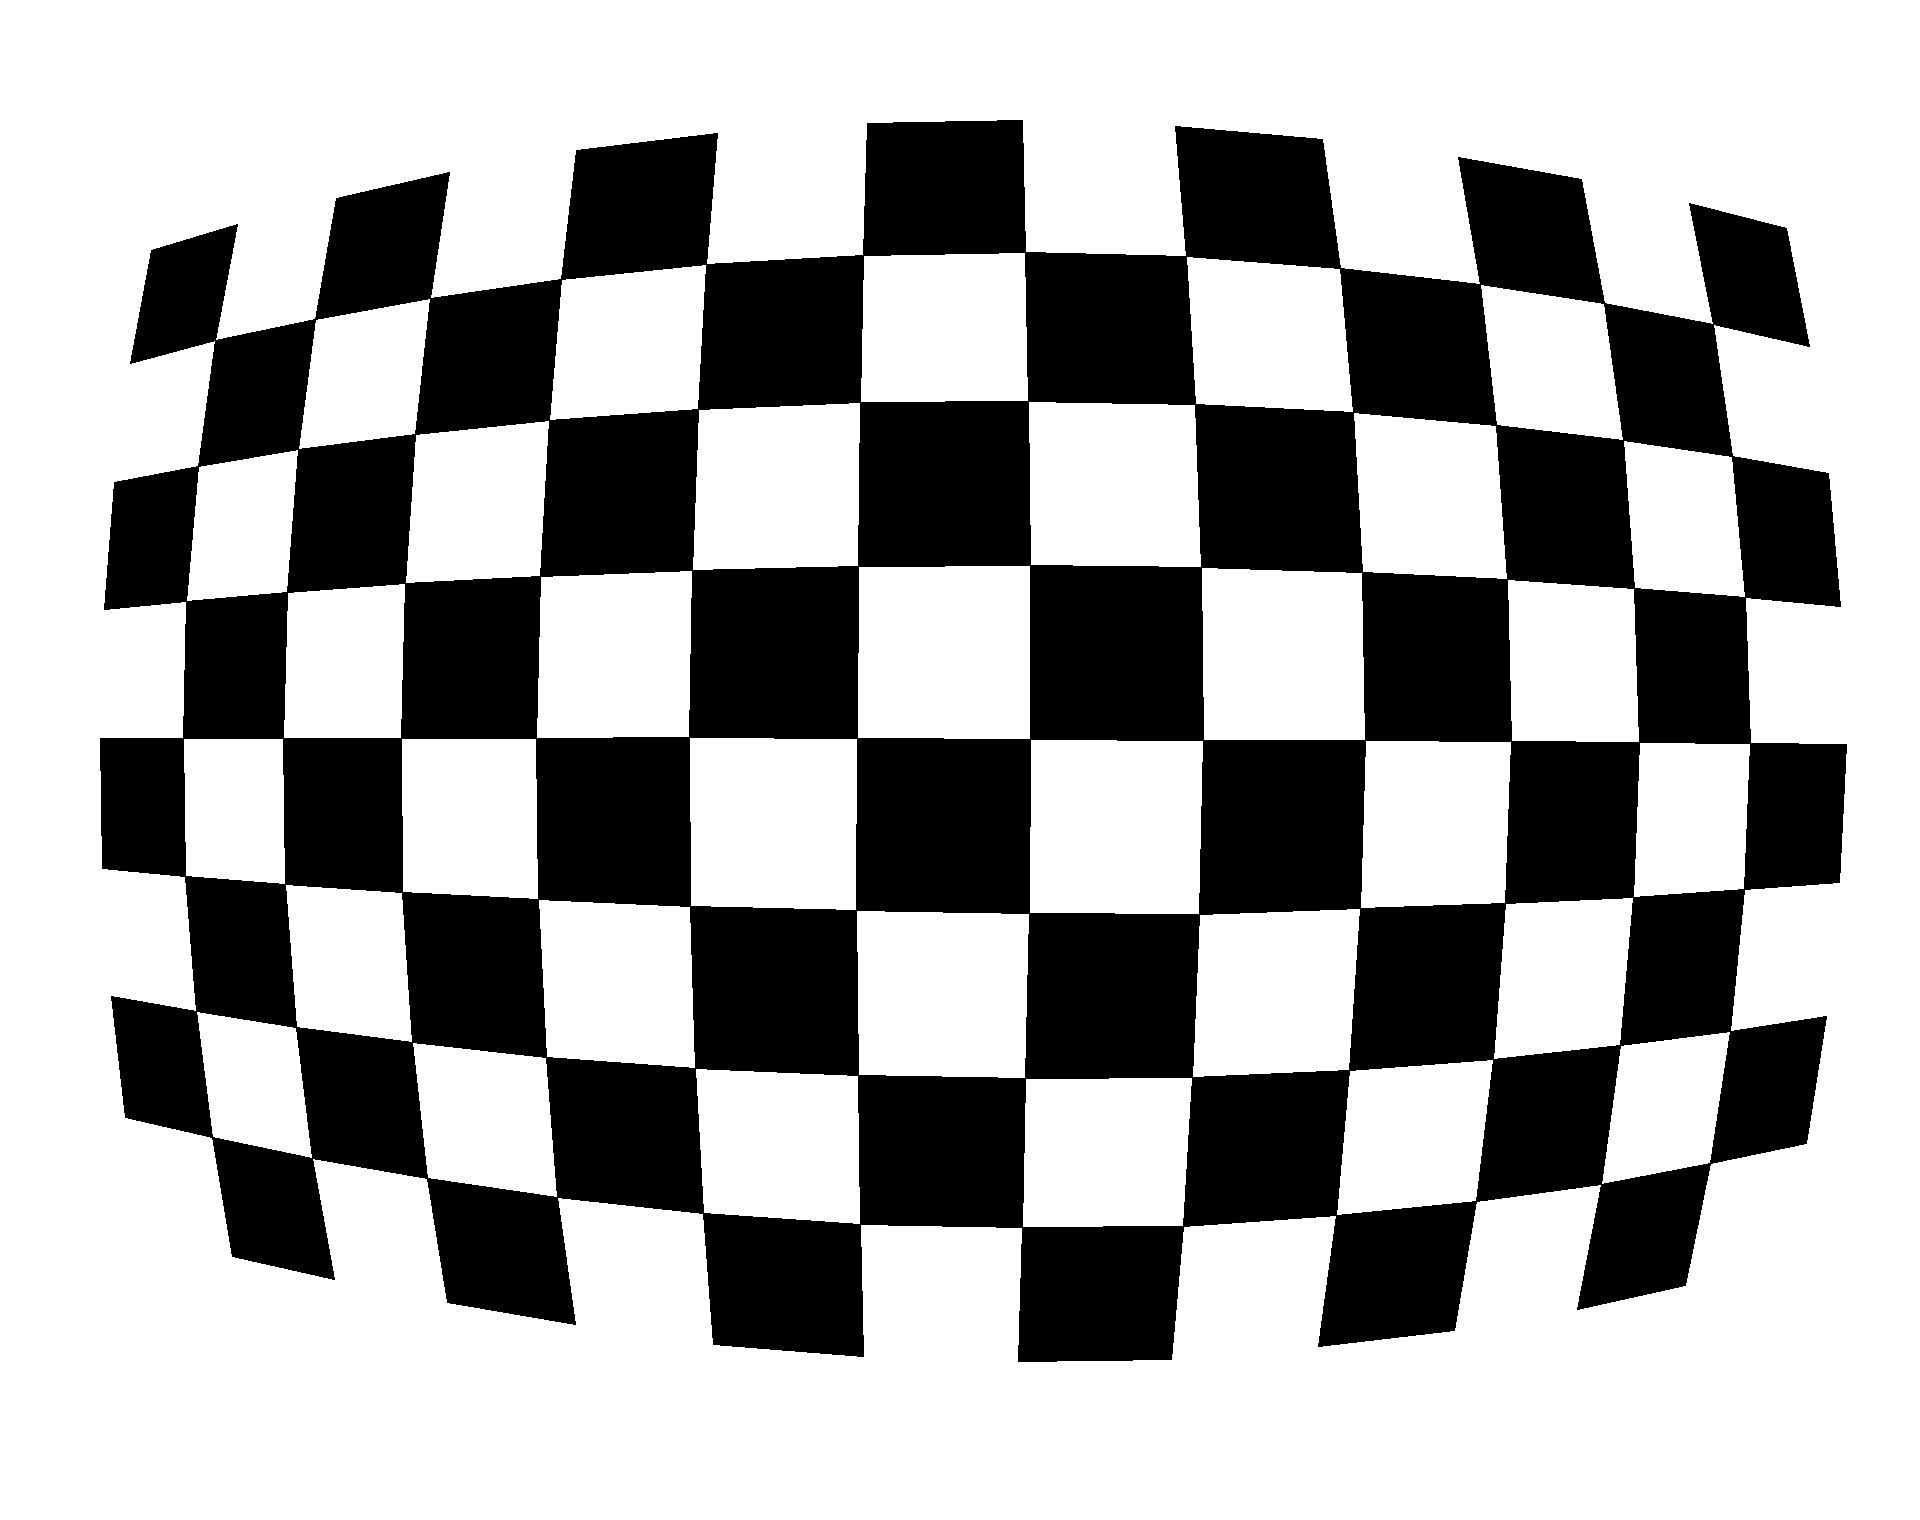
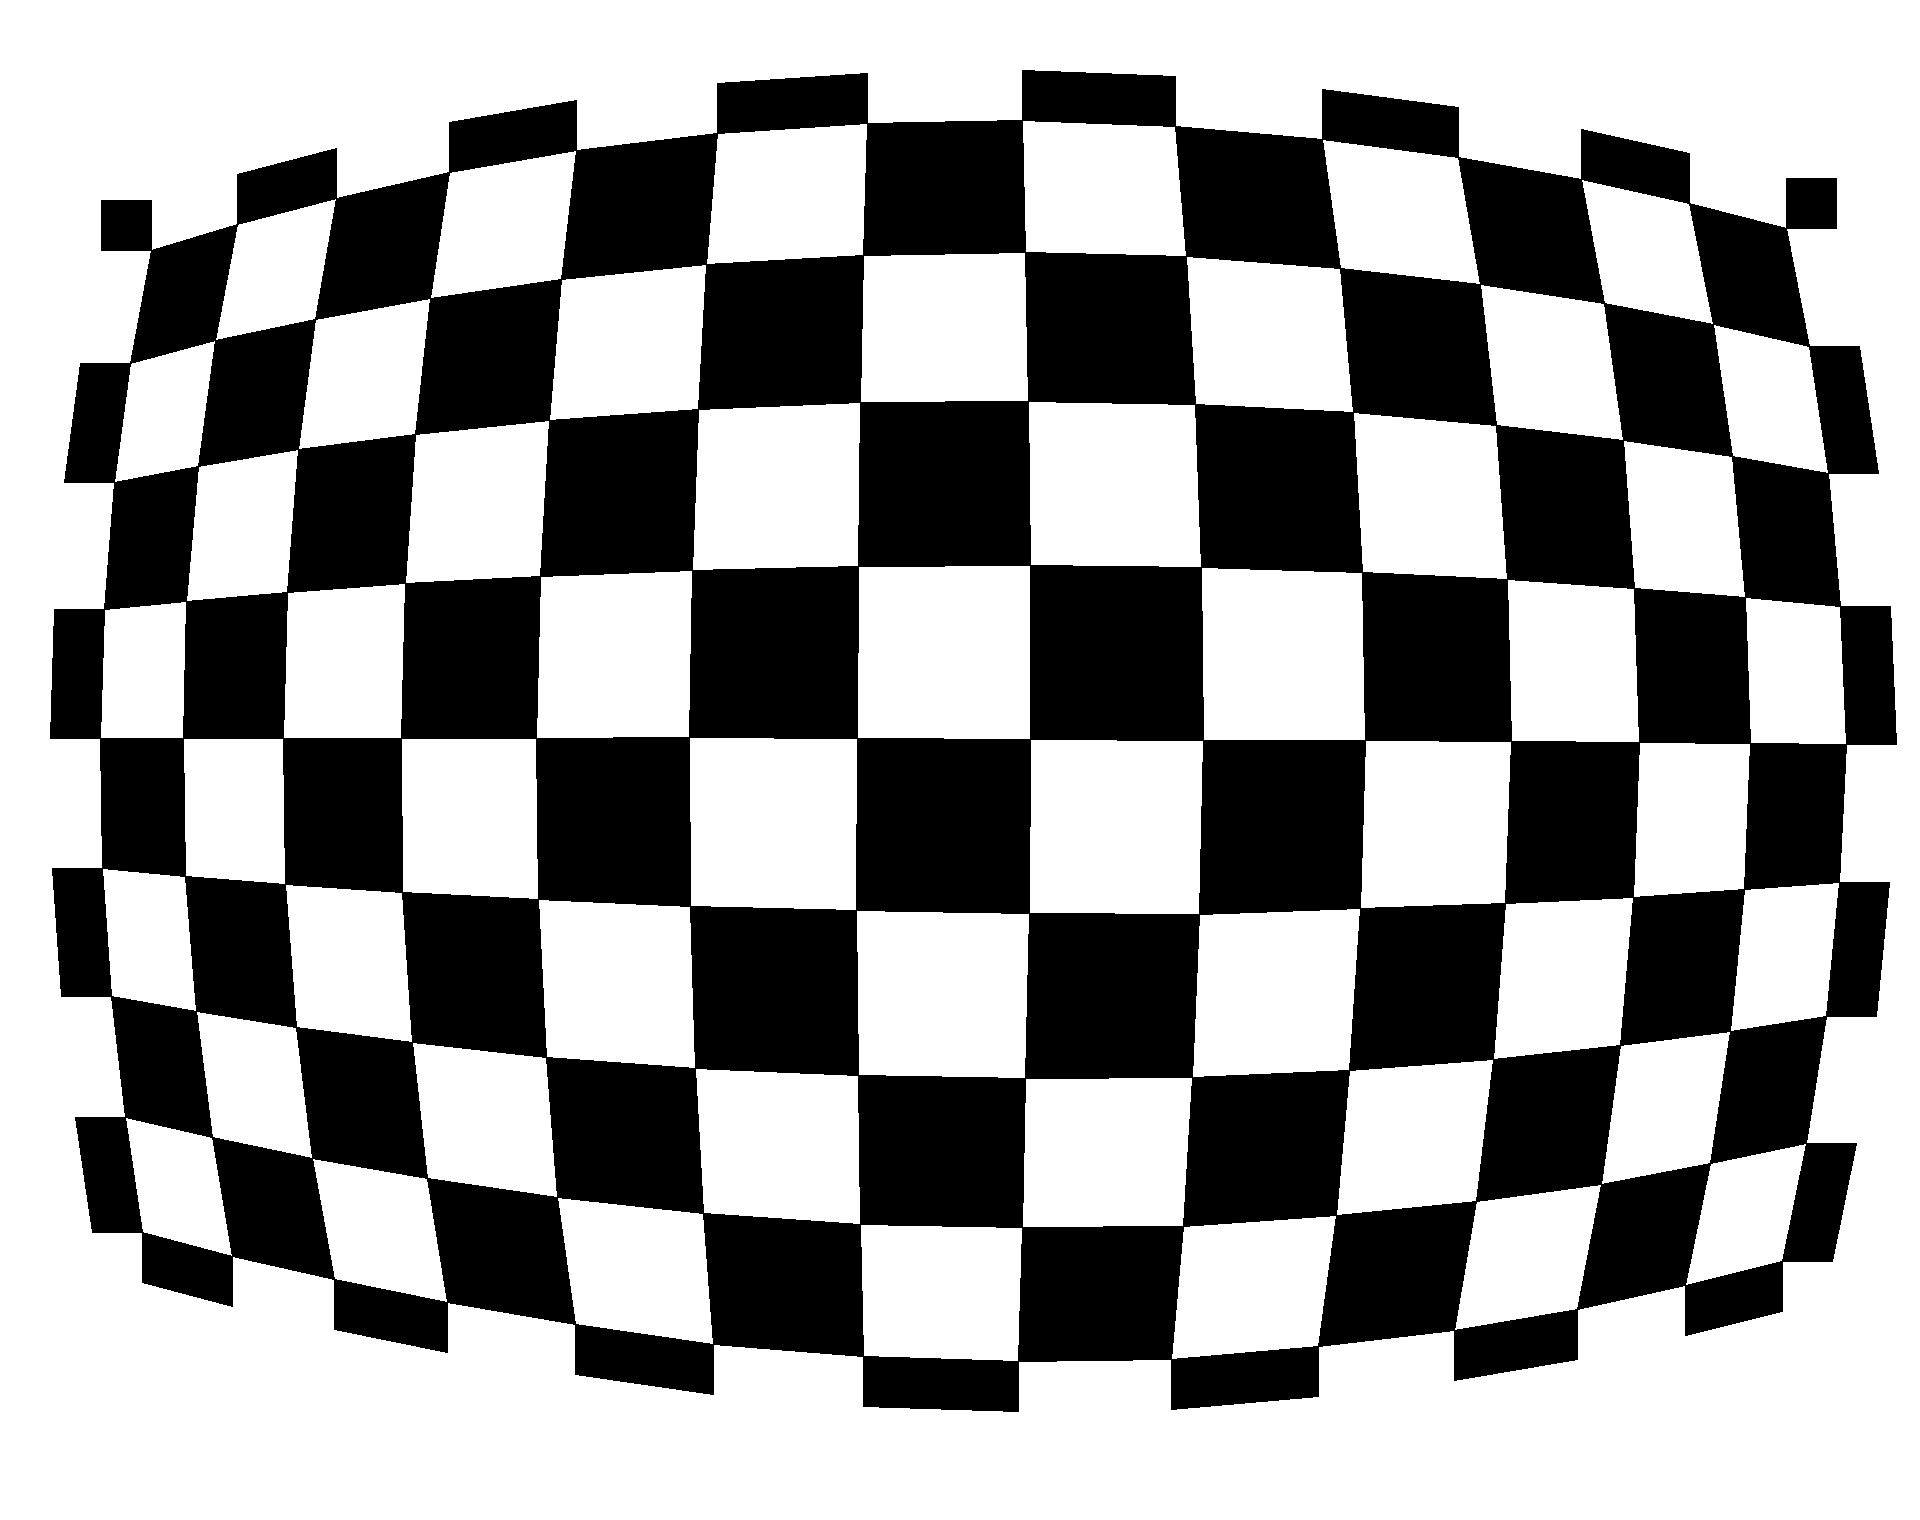
surrounding squares added to the chessboard

diff --git a/CalibrationByChessboard/testCircleGridCalibration.py b/CalibrationByChessboard/testCircleGridCalibration.py
@@ -150,7 +150,7 @@ cv2.imwrite('undistorted_foto2.png', undistorted_img)
 # Create a white canvas for drawing the distorted chessboard
 canvas = np.ones_like(img) * 255
 
-# Draw the distorted chessboard pattern
+# Draw the distorted chessboard pattern (middle)
 cols, rows = pattern_size
 square_count = 1
 for r in range(rows - 1): 
@@ -163,8 +163,93 @@ for r in range(rows - 1):
         if square_count % 2 == 1 and idx1 < len(sorted_points) and idx2 < len(sorted_points) and idx3 < len(sorted_points) and idx4 < len(sorted_points):
             pts = np.array([sorted_points[idx1], sorted_points[idx2], sorted_points[idx4], sorted_points[idx3]], np.int32)
             pts = pts.reshape((-1, 1, 2))
-            cv2.fillPoly(canvas, [pts], color=(0, 0, 0))  # Fill the square wit
+            cv2.fillPoly(canvas, [pts], color=(0, 0, 0))  # Fill the square
         square_count += 1
+        
+# Draw the distorted chessboard pattern (top line)
+square_count = 1
+for r in range(cols - 1): 
+    id1 = r
+    id2 = id1 + 1  
+    x1=sorted_points[id1][0]
+    y1=sorted_points[id1][1]  
+    x2=sorted_points[id2][0]
+    y2=sorted_points[id2][1] 
+    
+    if square_count % 2 != 1 and id1 < len(sorted_points) and id2 < len(sorted_points):
+        # Define the points of the polygon
+        pts = np.array([[x1, y1], [x2, y2], [x2, y2-50], [x1, y1-50], [x1, y1]], np.int32)
+        pts = pts.reshape((-1, 1, 2))  # Required shape for fillPoly        
+        cv2.fillPoly(canvas, [pts], color=(0, 0, 0))  # Fill the square
+    square_count += 1
+    
+# Draw the distorted chessboard pattern (bottom line)
+square_count = 1
+for r in range(cols - 1): 
+    id1 = rows*cols - cols + r
+    id2 = id1 + 1  
+    x1=sorted_points[id1][0]
+    y1=sorted_points[id1][1]  
+    x2=sorted_points[id2][0]
+    y2=sorted_points[id2][1] 
+    
+    if square_count % 2 == 1 and id1 < len(sorted_points) and id2 < len(sorted_points):
+        # Define the points of the polygon
+        pts = np.array([[x1, y1], [x2, y2], [x2, y2+50], [x1, y1+50], [x1, y1]], np.int32)
+        pts = pts.reshape((-1, 1, 2))  # Required shape for fillPoly        
+        cv2.fillPoly(canvas, [pts], color=(0, 0, 0))  # Fill the square
+    square_count += 1
+    
+# Draw the distorted chessboard pattern (left line)
+square_count = 1
+for r in range(rows - 1): 
+    id1 = r*cols
+    id2 = id1 + cols  
+    x1=sorted_points[id1][0]
+    y1=sorted_points[id1][1]  
+    x2=sorted_points[id2][0]
+    y2=sorted_points[id2][1] 
+    
+    if square_count % 2 != 1 and id1 < len(sorted_points) and id2 < len(sorted_points):
+        # Define the points of the polygon
+        pts = np.array([[x1, y1], [x2, y2], [x2-50, y2], [x1-50, y1], [x1, y1]], np.int32)
+        pts = pts.reshape((-1, 1, 2))  # Required shape for fillPoly        
+        cv2.fillPoly(canvas, [pts], color=(0, 0, 0))  # Fill the square
+    square_count += 1
+
+# Draw the distorted chessboard pattern (right line)
+square_count = 1
+for r in range(rows - 1): 
+    id1 = r*cols + cols -1
+    id2 = id1 + cols  
+    x1=sorted_points[id1][0]
+    y1=sorted_points[id1][1]  
+    x2=sorted_points[id2][0]
+    y2=sorted_points[id2][1] 
+    
+    if square_count % 2 != 1 and id1 < len(sorted_points) and id2 < len(sorted_points):
+        # Define the points of the polygon
+        pts = np.array([[x1, y1], [x2, y2], [x2+50, y2], [x1+50, y1], [x1, y1]], np.int32)
+        pts = pts.reshape((-1, 1, 2))  # Required shape for fillPoly        
+        cv2.fillPoly(canvas, [pts], color=(0, 0, 0))  # Fill the square
+    square_count += 1
+    
+    # Draw the distorted chessboard pattern (top left square)
+    x0=sorted_points[0][0]
+    y0=sorted_points[0][1]
+    
+    pts = np.array([[x0, y0], [x0, y0-50], [x0-50, y0-50], [x0-50, y0], [x0-50, y0]], np.int32)
+    pts = pts.reshape((-1, 1, 2))  # Required shape for fillPoly        
+    cv2.fillPoly(canvas, [pts], color=(0, 0, 0))  # Fill the square
+    
+    # Draw the distorted chessboard pattern (top right square)
+    x0=sorted_points[cols-1][0]
+    y0=sorted_points[cols-1][1]
+    
+    pts = np.array([[x0, y0], [x0, y0-50], [x0+50, y0-50], [x0+50, y0], [x0+50, y0]], np.int32)
+    pts = pts.reshape((-1, 1, 2))  # Required shape for fillPoly        
+    cv2.fillPoly(canvas, [pts], color=(0, 0, 0))  # Fill the square
+    
 
 
 # Display the distorted chessboard pattern
